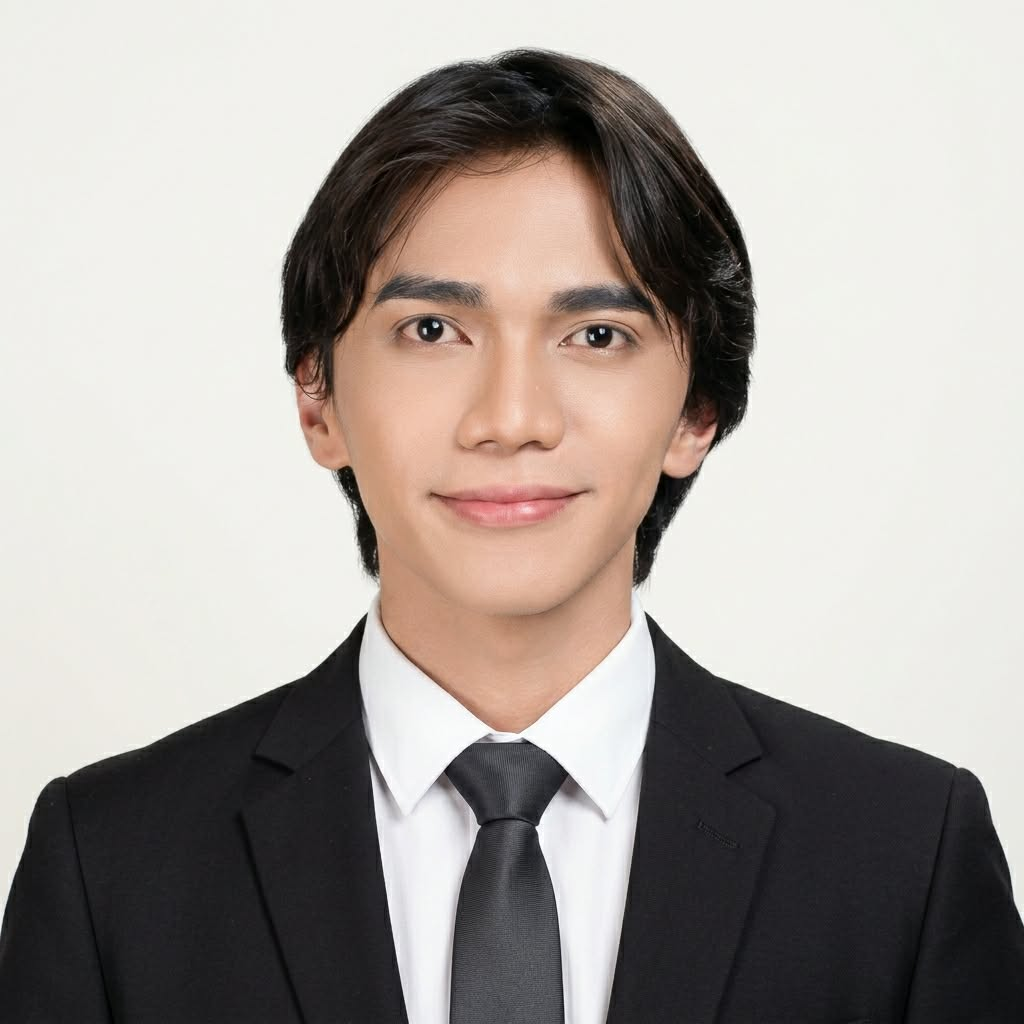
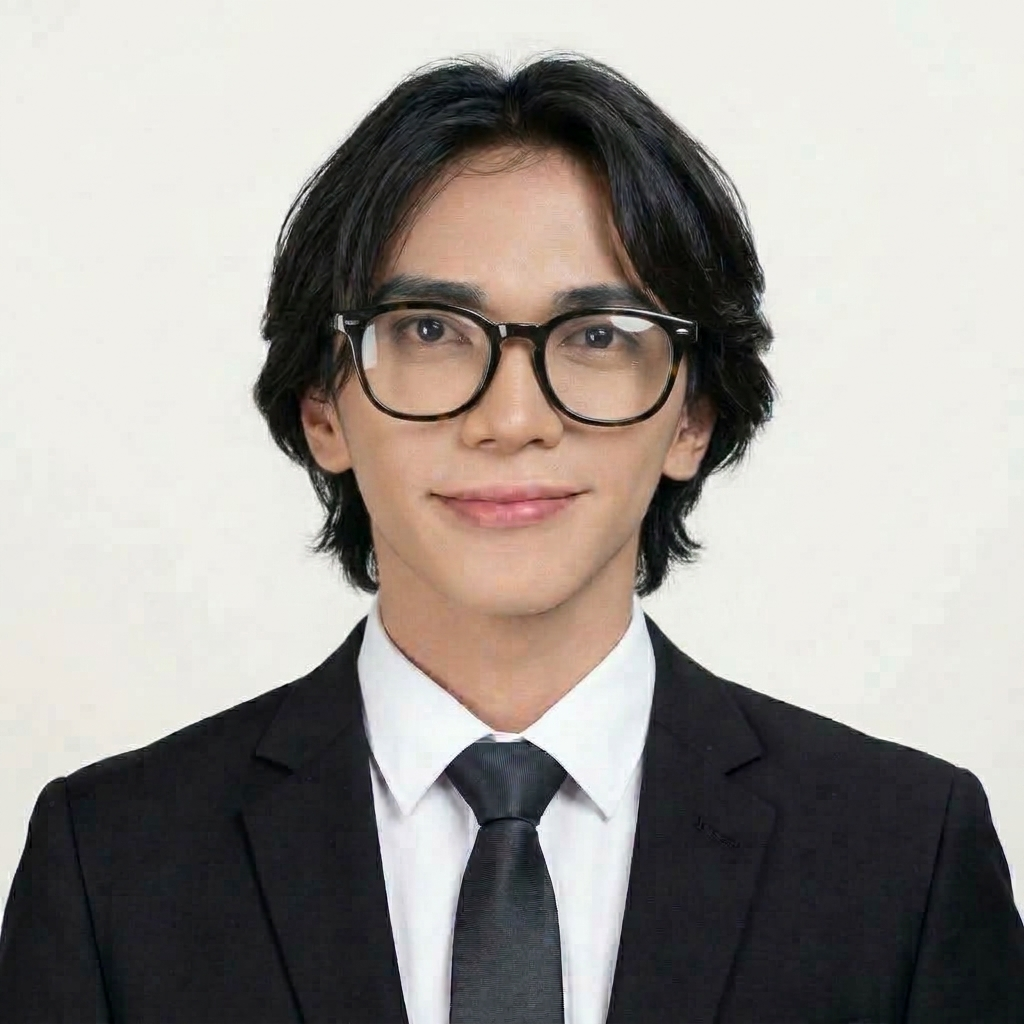
Hero: coded code-window visual, lighter animated background, new profile photo

diff --git a/assets/js/custom.js b/assets/js/custom.js
@@ -26,8 +26,8 @@ if (form) form.addEventListener('submit', e => {
     const n = Math.min(90, Math.floor(w * h / 14000));
     pts = Array.from({ length: n }, () => ({ x: Math.random() * w, y: Math.random() * h, vx: (Math.random() - .5) * .45, vy: (Math.random() - .5) * .45, r: Math.random() * 1.6 + .6 }));
     orbs = [
-      { x: .2, y: .3, r: .35, c: '20,157,221', s: .0006, p: 0 },
-      { x: .8, y: .7, r: .4, c: '14,100,150', s: .0008, p: 2 },
+      { x: .2, y: .3, r: .35, c: '60,190,255', s: .0006, p: 0 },
+      { x: .8, y: .7, r: .4, c: '30,130,200', s: .0008, p: 2 },
       { x: .6, y: .2, r: .25, c: '120,200,240', s: .0005, p: 4 }
     ];
   }
@@ -39,11 +39,13 @@ if (form) form.addEventListener('submit', e => {
 
   (function frame() {
     t++;
-    ctx.fillStyle = '#040b14'; ctx.fillRect(0, 0, w, h);
+    const base = ctx.createLinearGradient(0, 0, w, h);
+    base.addColorStop(0, '#12406e'); base.addColorStop(1, '#0a6aa6');
+    ctx.fillStyle = base; ctx.fillRect(0, 0, w, h);
     for (const o of orbs) {
       const x = (o.x + Math.sin(t * o.s * 6 + o.p) * .08) * w, y = (o.y + Math.cos(t * o.s * 5 + o.p) * .08) * h, r = o.r * Math.max(w, h);
       const g = ctx.createRadialGradient(x, y, 0, x, y, r);
-      g.addColorStop(0, `rgba(${o.c},.32)`); g.addColorStop(1, `rgba(${o.c},0)`);
+      g.addColorStop(0, `rgba(${o.c},.45)`); g.addColorStop(1, `rgba(${o.c},0)`);
       ctx.fillStyle = g; ctx.fillRect(0, 0, w, h);
     }
     for (const p of pts) {
@@ -65,4 +67,36 @@ if (form) form.addEventListener('submit', e => {
     }
     if (!reduce) requestAnimationFrame(frame);
   })();
+})();
+
+/* Hero: typing code window */
+(function codeWindow() {
+  const out = document.getElementById('codeOut'); if (!out) return;
+  const src = `// one sign-in for every tool
+import { verifySession } from "./auth";
+
+export async function guard(req: Request) {
+  const session = await verifySession(req);
+  if (!session) return redirect("/login");
+
+  if (!session.tools.includes("registry")) {
+    return new Response("Access denied", {
+      status: 403,
+    });
+  }
+  return next(req);
+}`;
+  const esc = s => s.replace(/&/g, '&amp;').replace(/</g, '&lt;');
+  const TOK = /(\/\/.*)|("[^"\n]*")|\b(import|from|export|async|function|const|await|if|return|new)\b|\b(verifySession|redirect|includes|next|guard|Response)\b|\b(Request)\b/g;
+  const hl = s => esc(s).replace(TOK, (m, c, str, k, f, t) =>
+    `<span class="${c ? "tk-c" : str ? "tk-s" : k ? "tk-k" : f ? "tk-f" : "tk-t"}">${m}</span>`);
+  let i = 0, hold = 0;
+  const reduce = matchMedia('(prefers-reduced-motion: reduce)').matches;
+  if (reduce) { out.innerHTML = hl(src); return; }
+  setInterval(() => {
+    if (hold > 0) { hold--; return; }
+    i += 2;
+    out.innerHTML = hl(src.slice(0, i));
+    if (i >= src.length) { hold = 70; i = 0; setTimeout(() => {}, 0); }
+  }, 45);
 })();

diff --git a/assets/css/custom.css b/assets/css/custom.css
@@ -4,3 +4,30 @@
 .portfolio-details .portfolio-description ul { padding-left: 18px; }
 .portfolio-details .portfolio-description li { margin-bottom: 6px; }
 [hidden] { display: none !important; }
+
+/* Hero: coded "image" on the right (code window + floating stack chips) */
+.hero-visual { position: absolute; z-index: 3; right: 5%; top: 50%; transform: translateY(-50%); width: min(540px, 42%); }
+.code-window { background: rgba(6, 16, 30, .82); border: 1px solid rgba(20, 157, 221, .35); border-radius: 16px; backdrop-filter: blur(10px); box-shadow: 0 40px 80px -30px rgba(0, 0, 0, .8), 0 0 60px -20px rgba(20, 157, 221, .45); overflow: hidden; animation: floaty 7s ease-in-out infinite; }
+.code-bar { display: flex; align-items: center; gap: 7px; padding: 12px 16px; background: rgba(255, 255, 255, .05); border-bottom: 1px solid rgba(255, 255, 255, .08); }
+.code-bar i { width: 11px; height: 11px; border-radius: 50%; background: #ff5f57; }
+.code-bar i:nth-child(2) { background: #febc2e; }
+.code-bar i:nth-child(3) { background: #28c840; }
+.code-bar span { margin-left: 12px; font: 13px "Poppins", sans-serif; color: #8fa3b8; }
+.code-body { margin: 0; padding: 20px 22px; min-height: 330px; font: 13.5px/1.75 "SFMono-Regular", Consolas, "Liberation Mono", monospace; color: #d6e4f0; white-space: pre-wrap; display: block; }
+.code-body code { font: inherit; color: inherit; }
+.code-body .caret { display: inline-block; width: 8px; height: 1.1em; vertical-align: text-bottom; background: #149ddd; animation: blink 1s steps(1) infinite; }
+.tk-k { color: #149ddd; } .tk-s { color: #7ee0a5; } .tk-c { color: #5f7488; font-style: italic; } .tk-f { color: #ffd479; } .tk-t { color: #c792ea; }
+.code-status { display: flex; justify-content: space-between; padding: 10px 18px; font: 12px "Poppins", sans-serif; color: #8fa3b8; background: rgba(20, 157, 221, .1); border-top: 1px solid rgba(255, 255, 255, .06); }
+.code-status i { color: #28c840; margin-right: 6px; }
+.float-chip { position: absolute; display: flex; align-items: center; gap: 8px; padding: 8px 16px; border-radius: 50px; background: rgba(6, 16, 30, .9); border: 1px solid rgba(20, 157, 221, .45); color: #fff; font: 500 13px "Poppins", sans-serif; box-shadow: 0 12px 30px -10px rgba(20, 157, 221, .5); animation: floaty 6s ease-in-out infinite; }
+.float-chip i { color: #149ddd; }
+.float-chip.c1 { top: -22px; left: -34px; animation-delay: -1s; }
+.float-chip.c2 { top: 28%; right: -30px; animation-delay: -3s; }
+.float-chip.c3 { bottom: 14%; left: -44px; animation-delay: -2s; }
+.float-chip.c4 { bottom: -22px; right: 40px; animation-delay: -4s; }
+@keyframes floaty { 50% { transform: translateY(-12px); } }
+@keyframes blink { 50% { opacity: 0; } }
+@media (max-width: 1199px) { .hero-visual { display: none; } }
+
+/* lighter hero: drop the template dark overlay */
+.hero:before { display: none; }

diff --git a/index.html b/index.html
@@ -82,6 +82,18 @@
         <p>I'm <span class="typed" data-typed-items="Full-stack Developer, WordPress Developer, Data Automation">Full-stack Developer</span><span class="typed-cursor typed-cursor--blink" aria-hidden="true"></span></p>
       </div>
 
+      <div class="hero-visual" aria-hidden="true">
+        <div class="code-window">
+          <div class="code-bar"><i></i><i></i><i></i><span>gateway.ts</span></div>
+          <pre class="code-body"><code id="codeOut"></code><span class="caret"></span></pre>
+          <div class="code-status"><span><i class="bi bi-check-circle-fill"></i> Gateway online</span><span>TypeScript</span></div>
+        </div>
+        <span class="float-chip c1"><i class="bi bi-database"></i> PostgreSQL</span>
+        <span class="float-chip c2"><i class="bi bi-wordpress"></i> WordPress</span>
+        <span class="float-chip c3"><i class="bi bi-cloud-check"></i> Railway</span>
+        <span class="float-chip c4"><i class="bi bi-shield-lock"></i> SSO</span>
+      </div>
+
     </section><!-- /Hero Section -->
 
     <!-- About Section -->
